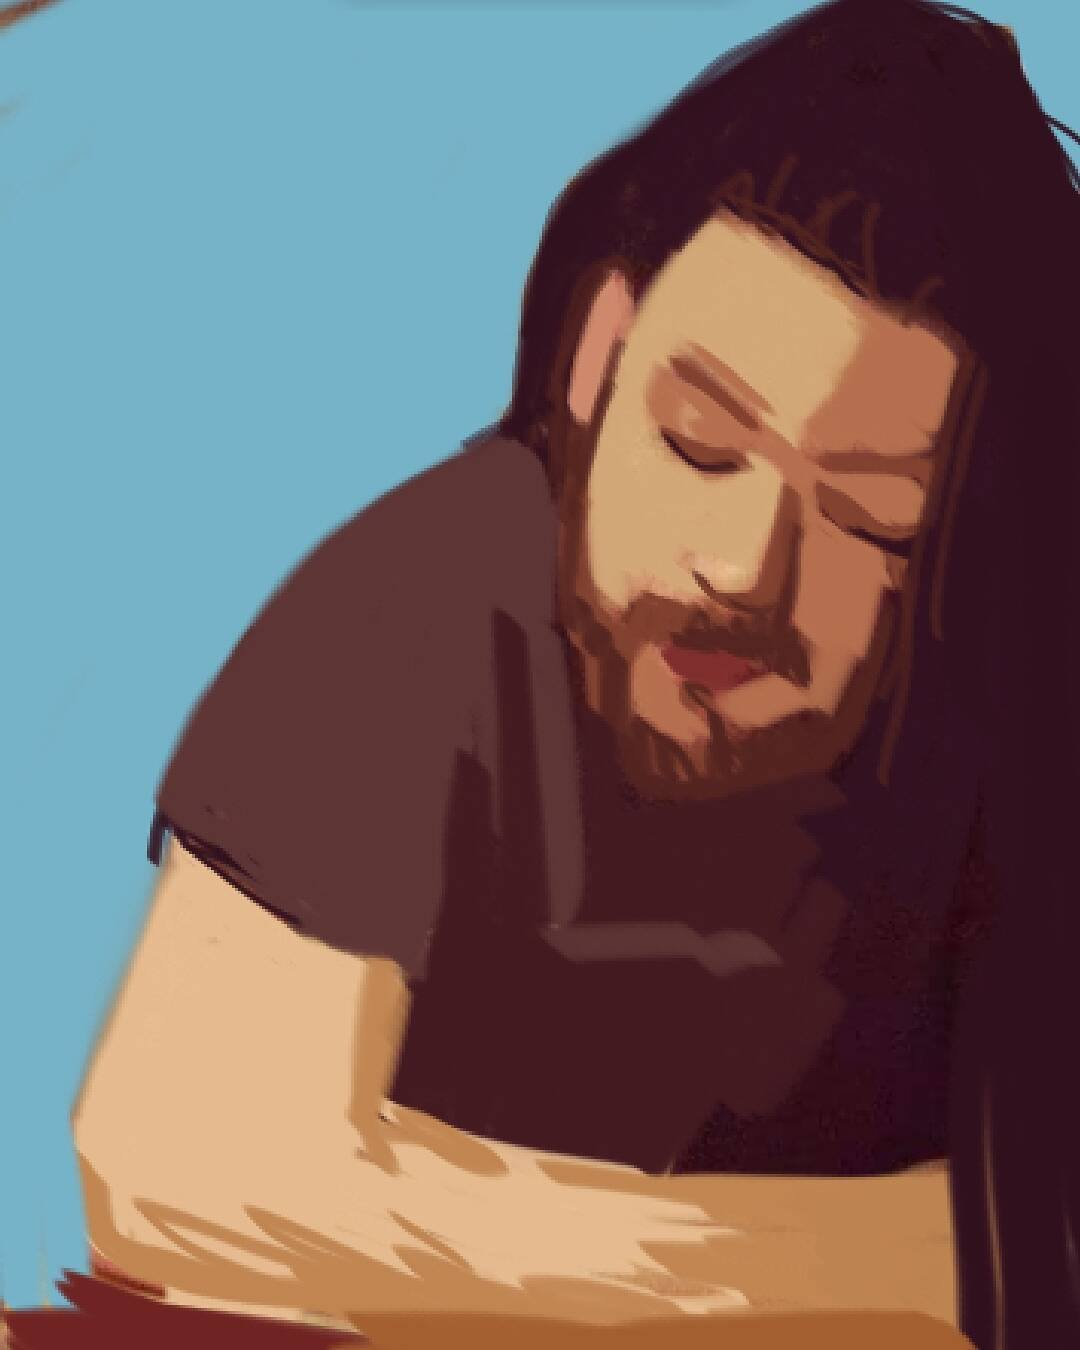
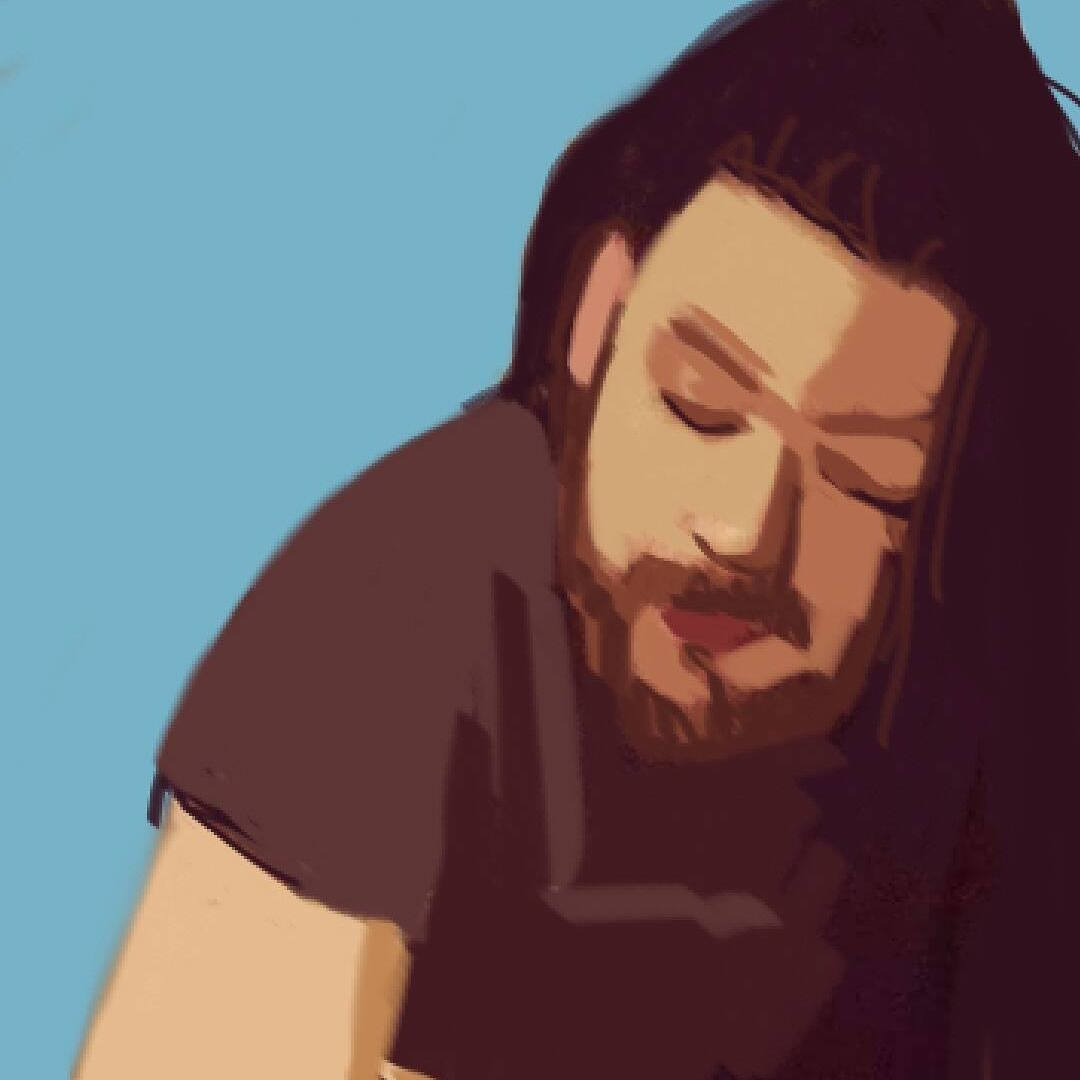
Round images is the cool thing right now.

diff --git a/index.html b/index.html
@@ -42,7 +42,7 @@ a:hover {
     display: block;
     margin-left: auto;
     margin-right: auto;
-    margin-bottom: 40px;
+    border-radius: 50%;
 }
 p {
     line-height: 1.4em
